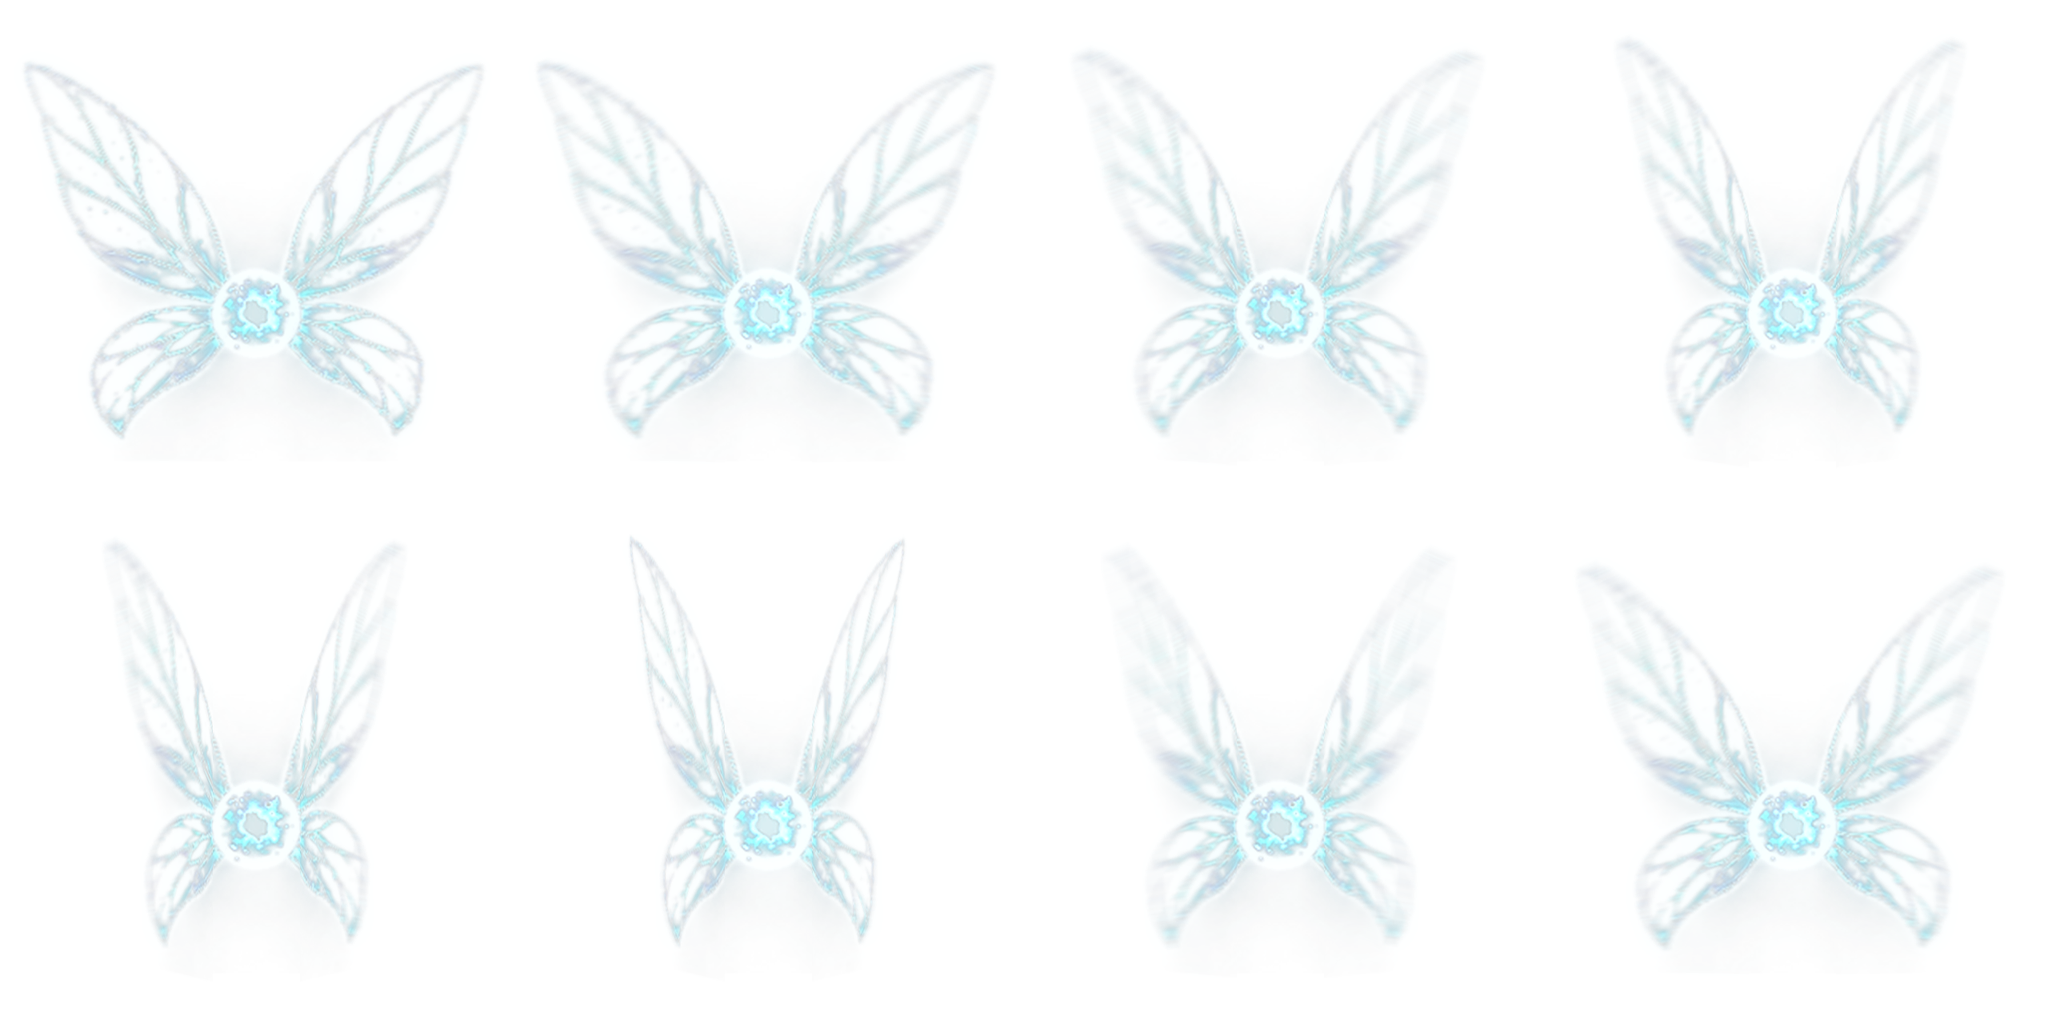
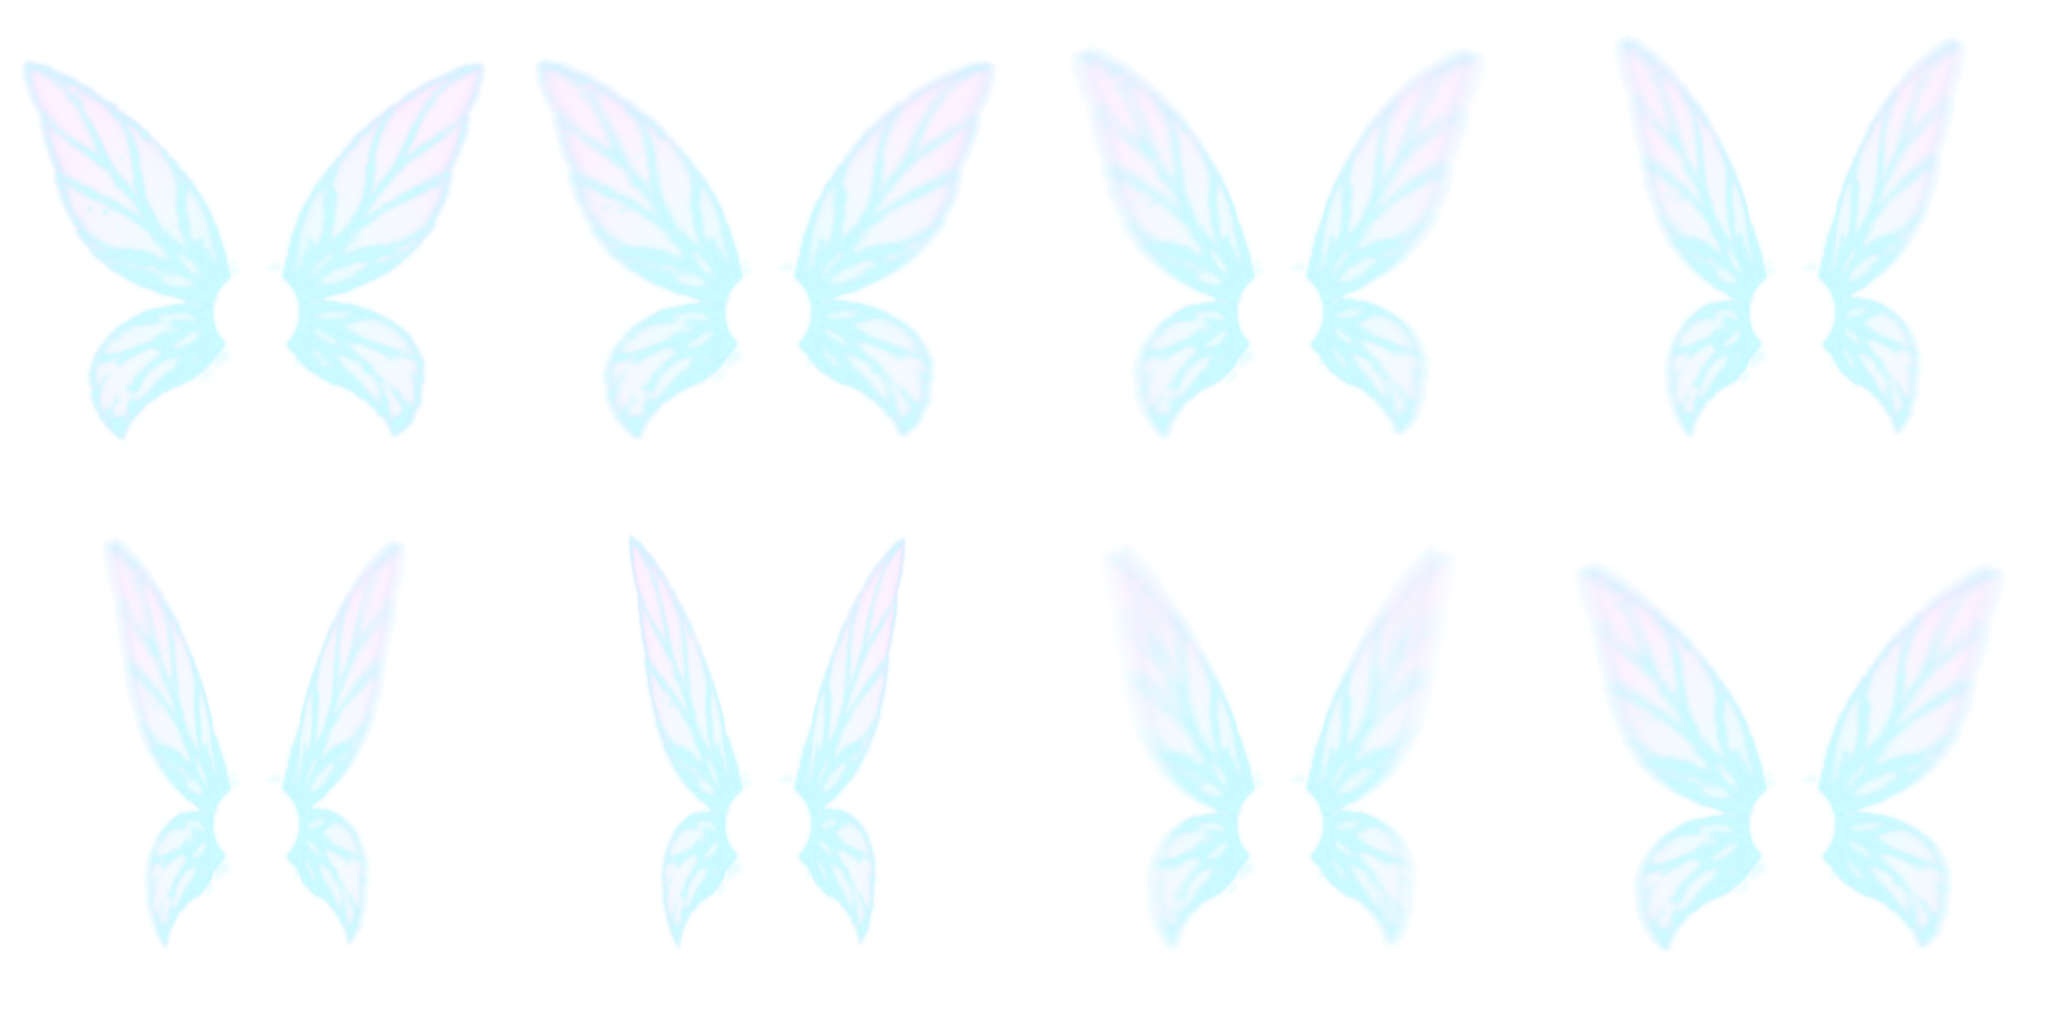
beleza

diff --git a/NaviFantasy/FairyRenderer.cs b/NaviFantasy/FairyRenderer.cs
@@ -1,4 +1,6 @@
 using System;
+using System.Collections.Generic;
+using System.IO;
 using System.Numerics;
 using Dalamud.Bindings.ImGui;
 using Dalamud.Game.ClientState.Conditions;
@@ -7,7 +9,10 @@ using Dalamud.Plugin.Services;
 
 namespace NaviFantasy;
 
-/// <summary>Moves the fairy around the player's on-screen position, keeps her on screen, and draws her (and her speech bubble).</summary>
+/// <summary>
+/// Moves the fairy around the player's on-screen position, keeps her on screen, and draws her:
+/// glow halo, pixie-dust sparkles, flapping wings, a bright orb, and her speech bubble.
+/// </summary>
 public sealed class FairyRenderer
 {
     private const int Columns = 4;
@@ -17,25 +22,45 @@ public sealed class FairyRenderer
     private const float BaseSize = 160f;     // pixels at Scale = 1
     private const float OrbitRadius = 110f;  // pixels at Scale = 1
     private const float HeightAbovePlayer = 2.3f; // world units (yalms) above the player's feet
+    private const float OrbOffsetY = 0.109f; // the orb sits a bit below the sprite's center (fraction of sprite size)
+    private const int MaxParticles = 160;
+
+    private struct Particle
+    {
+        public Vector2 Pos;
+        public Vector2 Vel;
+        public float Life;
+        public float MaxLife;
+        public float Size;     // star radius in pixels
+        public float Rot;
+        public float RotSpeed;
+        public float Twinkle;
+        public Vector3 Color;
+    }
 
     private readonly Configuration config;
     private readonly IGameGui gameGui;
     private readonly IObjectTable objectTable;
     private readonly ICondition condition;
     private readonly ISharedImmediateTexture sheet;
+    private readonly ISharedImmediateTexture glowTexture;
+    private readonly ISharedImmediateTexture sparkleTexture;
     private readonly SpeechBubble bubble;
+    private readonly List<Particle> particles = new();
 
     private Vector2 position;
     private Vector2 velocity;
     private Vector2 offset;
+    private Vector2 lastOrb;
+    private float lastUnit = 1f;
     private float retargetTimer;
+    private float spawnAccumulator;
     private float time;
     private bool initialized;
 
     public FairyRenderer(
         Configuration config,
-        string sheetPath,
-        string bubblePath,
+        string assetsDir,
         ITextureProvider textureProvider,
         IGameGui gameGui,
         IObjectTable objectTable,
@@ -45,12 +70,18 @@ public sealed class FairyRenderer
         this.gameGui = gameGui;
         this.objectTable = objectTable;
         this.condition = condition;
-        sheet = textureProvider.GetFromFile(sheetPath);
-        bubble = new SpeechBubble(textureProvider, bubblePath);
+        sheet = textureProvider.GetFromFile(Path.Combine(assetsDir, "navi_wings_sheet.png"));
+        glowTexture = textureProvider.GetFromFile(Path.Combine(assetsDir, "navi_glow.png"));
+        sparkleTexture = textureProvider.GetFromFile(Path.Combine(assetsDir, "navi_sparkle.png"));
+        bubble = new SpeechBubble(textureProvider, Path.Combine(assetsDir, "speech_bubble.png"));
     }
 
-    /// <summary>Makes the fairy say something in a speech bubble.</summary>
-    public void Say(string text) => bubble.Show(text);
+    /// <summary>Makes the fairy say something in a speech bubble, with a burst of sparkles.</summary>
+    public void Say(string text)
+    {
+        bubble.Show(text);
+        Burst();
+    }
 
     public void Draw(float dt)
     {
@@ -58,6 +89,7 @@ public sealed class FairyRenderer
         if (player == null || condition[ConditionFlag.BetweenAreas] || condition[ConditionFlag.BetweenAreas51])
         {
             initialized = false;
+            particles.Clear();
             bubble.Dismiss();
             return;
         }
@@ -90,6 +122,7 @@ public sealed class FairyRenderer
             position = target;
             velocity = Vector2.Zero;
             initialized = true;
+            particles.Clear();
         }
 
         // Underdamped spring: she overshoots a little, which reads as flying.
@@ -124,12 +157,143 @@ public sealed class FairyRenderer
         var sin = MathF.Sin(tilt);
         Vector2 Corner(float x, float y) => position + new Vector2(x * cos - y * sin, x * sin + y * cos);
 
-        ImGui.GetBackgroundDrawList().AddImageQuad(
+        var size = half * 2f;
+        var unit = size / 48f; // 1.0 at the default size (0.30x)
+        var orb = Corner(0f, size * OrbOffsetY);
+        lastOrb = orb;
+        lastUnit = unit;
+
+        UpdateParticles(dt, orb, unit);
+
+        var dl = ImGui.GetBackgroundDrawList();
+        var pulse = 0.5f + 0.5f * MathF.Sin(time * 5.2f);
+        var hasGlow = glowTexture.TryGetWrap(out var glow, out _) && glow != null;
+        var hasSparkle = sparkleTexture.TryGetWrap(out var sparkle, out _) && sparkle != null;
+
+        // 1) soft halo behind everything
+        if (hasGlow)
+            DrawSprite(dl, glow!.Handle, orb, size * (1.12f + 0.08f * pulse), 0f, new Vector4(1f, 1f, 1f, 0.50f + 0.18f * pulse));
+
+        // 2) pixie dust
+        if (hasSparkle)
+        {
+            foreach (var p in particles)
+            {
+                var t = p.Life / p.MaxLife; // 1 -> 0
+                var twinkle = 0.65f + 0.35f * MathF.Sin(time * 14f + p.Twinkle);
+                var alpha = Math.Clamp(t * 2.2f, 0f, 1f) * twinkle;
+                var radius = p.Size * (0.45f + 0.55f * t);
+                DrawSprite(dl, sparkle!.Handle, p.Pos, radius, p.Rot, new Vector4(p.Color, alpha));
+            }
+        }
+
+        // 3) wings
+        dl.AddImageQuad(
             texture.Handle,
             Corner(-half, -half), Corner(half, -half), Corner(half, half), Corner(-half, half),
             uv0, new Vector2(uv1.X, uv0.Y), uv1, new Vector2(uv0.X, uv1.Y),
             0xFFFFFFFF);
 
+        // 4) bright orb body on top
+        if (hasGlow)
+            DrawSprite(dl, glow!.Handle, orb, size * (0.17f + 0.02f * pulse), 0f, new Vector4(1f, 1f, 1f, 1f));
+        if (hasSparkle)
+            DrawSprite(dl, sparkle!.Handle, orb, size * (0.22f + 0.05f * pulse), time * 0.6f, new Vector4(1f, 1f, 1f, 0.85f));
+
         bubble.Draw(position, half, dt);
+    }
+
+    private static void DrawSprite(ImDrawListPtr dl, ImTextureID tex, Vector2 center, float radius, float rotation, Vector4 tint)
+    {
+        var color = ImGui.ColorConvertFloat4ToU32(tint);
+        if (MathF.Abs(rotation) < 0.001f)
+        {
+            dl.AddImage(tex, center - new Vector2(radius), center + new Vector2(radius), Vector2.Zero, Vector2.One, color);
+            return;
+        }
+
+        var c = MathF.Cos(rotation);
+        var s = MathF.Sin(rotation);
+        Vector2 P(float x, float y) => center + new Vector2(x * c - y * s, x * s + y * c);
+        dl.AddImageQuad(
+            tex,
+            P(-radius, -radius), P(radius, -radius), P(radius, radius), P(-radius, radius),
+            new Vector2(0f, 0f), new Vector2(1f, 0f), new Vector2(1f, 1f), new Vector2(0f, 1f),
+            color);
+    }
+
+    private void SpawnParticle(Vector2 pos, Vector2 vel, float unit, float lifeMin, float lifeMax)
+    {
+        if (particles.Count >= MaxParticles)
+            return;
+
+        var rnd = Random.Shared;
+        var roll = rnd.NextSingle();
+        var color = roll < 0.6f ? new Vector3(1f, 1f, 1f)
+                  : roll < 0.9f ? new Vector3(0.6f, 0.95f, 1f)
+                  : new Vector3(1f, 0.92f, 0.65f);
+        var life = lifeMin + rnd.NextSingle() * (lifeMax - lifeMin);
+
+        particles.Add(new Particle
+        {
+            Pos = pos,
+            Vel = vel,
+            Life = life,
+            MaxLife = life,
+            Size = (3f + rnd.NextSingle() * 3.5f) * unit,
+            Rot = rnd.NextSingle() * MathF.Tau,
+            RotSpeed = (rnd.NextSingle() - 0.5f) * 2f,
+            Twinkle = rnd.NextSingle() * MathF.Tau,
+            Color = color,
+        });
+    }
+
+    private void UpdateParticles(float dt, Vector2 orb, float unit)
+    {
+        var rnd = Random.Shared;
+
+        // A steady trickle of dust, and more of it while she is darting around.
+        spawnAccumulator += dt * (14f + MathF.Min(velocity.Length() / 12f, 40f));
+        while (spawnAccumulator >= 1f)
+        {
+            spawnAccumulator -= 1f;
+            var angle = rnd.NextSingle() * MathF.Tau;
+            var dist = rnd.NextSingle() * 6f * unit;
+            var pos = orb + new Vector2(MathF.Cos(angle) * dist, MathF.Sin(angle) * dist);
+            var vel = new Vector2((rnd.NextSingle() - 0.5f) * 28f * unit, (rnd.NextSingle() - 0.2f) * 22f * unit) - velocity * 0.05f;
+            SpawnParticle(pos, vel, unit, 0.7f, 1.4f);
+        }
+
+        for (var i = particles.Count - 1; i >= 0; i--)
+        {
+            var p = particles[i];
+            p.Life -= dt;
+            if (p.Life <= 0f)
+            {
+                particles.RemoveAt(i);
+                continue;
+            }
+
+            p.Vel.Y += 38f * unit * dt;          // dust slowly falls
+            p.Vel *= MathF.Max(0f, 1f - 0.9f * dt); // and loses speed
+            p.Pos += p.Vel * dt;
+            p.Rot += p.RotSpeed * dt;
+            particles[i] = p;
+        }
+    }
+
+    private void Burst()
+    {
+        if (!initialized)
+            return;
+
+        const int count = 26;
+        var rnd = Random.Shared;
+        for (var i = 0; i < count; i++)
+        {
+            var angle = MathF.Tau * i / count + rnd.NextSingle() * 0.2f;
+            var speed = (50f + rnd.NextSingle() * 90f) * lastUnit;
+            SpawnParticle(lastOrb, new Vector2(MathF.Cos(angle), MathF.Sin(angle)) * speed, lastUnit, 0.7f, 1.5f);
+        }
     }
 }

diff --git a/NaviFantasy/Plugin.cs b/NaviFantasy/Plugin.cs
@@ -40,7 +40,7 @@ public sealed class Plugin : IDalamudPlugin
         configuration = pluginInterface.GetPluginConfig() as Configuration ?? new Configuration();
 
         var assets = Path.Combine(pluginInterface.AssemblyLocation.DirectoryName ?? string.Empty, "Assets");
-        fairy = new FairyRenderer(configuration, Path.Combine(assets, "navi_wings_sheet.png"), Path.Combine(assets, "speech_bubble.png"), textureProvider, gameGui, objectTable, condition);
+        fairy = new FairyRenderer(configuration, assets, textureProvider, gameGui, objectTable, condition);
         audio = new AudioPlayer(Path.Combine(assets, "hey_listen.mp3"), log);
 
         configWindow = new ConfigWindow(configuration, () => pluginInterface.SavePluginConfig(configuration));

diff --git a/README.md b/README.md
@@ -15,7 +15,7 @@ and plays a short "Hey!" sound every 30 seconds, with a speech bubble.
 4. Type `/xlplugins`, search for **Navi Fantasy** in *All Plugins* and click **Install**.
 
 ## Features
-- Fairy with a fast wing-flap animation, flying around your character on screen.
+- Glowing fairy with translucent wings, a fast flap animation, a halo and a trail of sparkles, flying around your character on screen.
 - `/navi` opens the settings window, which has a single option: **Size**.
 - Plays a sound once every 30 seconds while a character is in the world.
 
